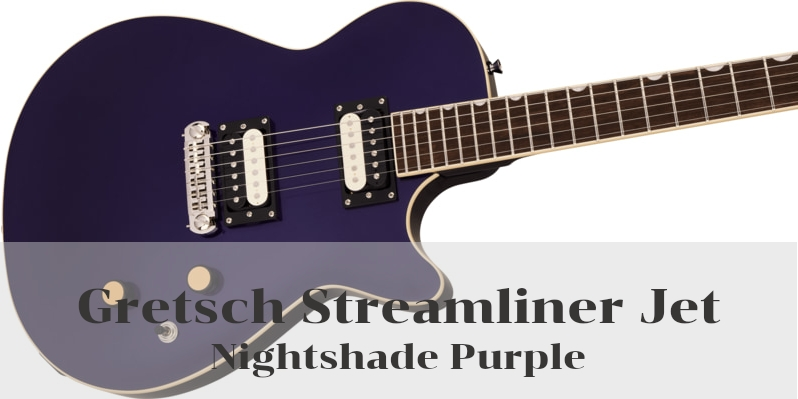
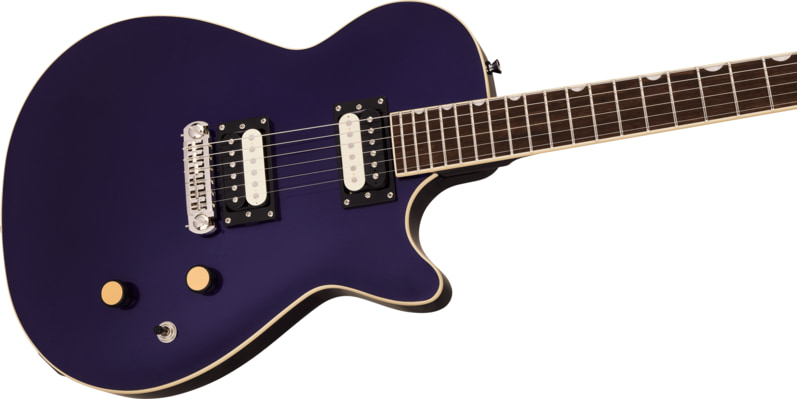
add image shortcodes with sass styles for gear blog post

diff --git a/sass/_images.scss b/sass/_images.scss
@@ -1,0 +1,55 @@
+// Images — figure/image positioning styles for the image shortcode
+// Consumer: shortcodes/image.html
+
+.img-figure {
+  margin: 1.5rem 0;
+
+  img {
+    display: block;
+    max-width: 100%;
+    border-radius: 8px;
+  }
+
+  figcaption {
+    font-family: var(--code-font);
+    font-size: 0.78rem;
+    color: var(--muted);
+    margin-top: 0.5rem;
+  }
+}
+
+.img-full img {
+  width: 100%;
+}
+
+.img-center {
+  width: 50%;
+  margin-left: auto;
+  margin-right: auto;
+
+  img {
+    width: 100%;
+  }
+}
+
+.img-left {
+  float: left;
+  width: 40%;
+  margin: 0 1.5rem 1rem 0;
+}
+
+.img-right {
+  float: right;
+  width: 40%;
+  margin: 0 0 1rem 1.5rem;
+}
+
+@media (max-width: 480px) {
+  .img-left,
+  .img-right,
+  .img-center {
+    float: none;
+    width: 100%;
+    margin: 1.5rem 0;
+  }
+}

diff --git a/sass/style.scss b/sass/style.scss
@@ -1,0 +1,2 @@
+
+@import "images";

diff --git a/static/custom.css b/static/custom.css
@@ -15,7 +15,6 @@
 
 .home-title {
   font-family: 'Array', sans-serif;
-
   font-size: 40px;
 }
 

diff --git a/content/blog/gear-adorations/index.md b/content/blog/gear-adorations/index.md
@@ -1,34 +1,71 @@
 +++
-title = "Gear Adorations"
+title = "Best guitars today!"
 date = "2026-05-07"
-description = ""
+updated = "2026-05-11"
+description = "Best guitars of all shapes and sizes"
 
 [taxonomies]
 tags = ["guitars", "gear"]
 +++
 
-Damn, we are certainly living in a time of the most amazing craftsmanship in musical instruments, particularly stringed instruments. Guitar's these days are truly a work of art. It is really hard to find a modern day guitar that is shitty. Unlike, the 90s and 2000s ordering a Squier or Epiphone basic learning guitar meant you were getting a chinese made POS that entailed lots and lots of work to make it a decent playable instrument. Which used to suck for a student, early adopter trying to learn! Very discouraging. 
+Damn, we are certainly living in a time of the most amazing craftsmanship in musical instruments, particularly stringed instruments, especially guitars these days are truly a work of art. It is really hard to find a modern day guitar that is shitty. Unlike, the 90s ordering a Squier or Epiphone learning guitar meant you were getting a chinese-made POS that entailed lots and lots of work to make it a decent playable instrument. Which used to suck for a student, early adopter trying to learn! Very discouraging. But just like most things (cars, TVs, pizza) in these modern times, they're simply just manufractured with some quality. Even chinese-made guitars are halfway decent!
 
-Anyhow 
+So I want to dive into the wondrous world of modern guitars – from surf-rockers to shoegaze noise machines – to bring you my top picks on the market today.
 
-Lorem ipsum dolor sit amet, excepteur laborum sint minim. Consequat sed amet anim, est lorem commodo excepteur duis laboris, in id in laborum consectetur quis est. Do consequat minim est voluptate duis, eiusmod adipiscing lorem deserunt voluptate. Sed duis cupidatat commodo et. Ex amet cupidatat sit sed minim enim excepteur. Labore proident veniam ea et sunt occaecat eu. Consectetur ullamco nostrud sint esse quis, aliqua eu sit consectetur excepteur.
 
 ## Purple Mess
 
+{{ image(url="img/gretsch-streamjet-01.jpg", position="left", alt="Gretsch Streamliner Jet") }}
 
-{{ full_width_image(src="gretsch-streamjet-01.jpg", alt="Gretsch Streamline Jet") }}
+First, as purple being one of my favorite finishes there have been lots of guitars being released in purple shades. 
+This new [Gretsch Streamliner Jet](https://gretschguitars.com/gear/build/solid-body/streamliner-jet/2814104589) was just released this year and is pretty legit! Basically has same specs as a **Les Paul Special**.
+{{ image(url="img/gretsch-vstock-headstock.jpg", position="right", alt="Gretsch V-Stock") }}
+But these zebra colored humbuckers look really clean with the purple finish. Also Gretsch new Split-V headstock is killer too! 
 
-{{ full_width_image(src="evh-sa120-purp.jpg", alt="EVH SA-120") }}
-
-Irure quis enim deserunt fugiat, laborum ea id ad ipsum qui lorem. Aliqua amet in quis excepteur anim cupidatat in, laborum nulla nulla aliqua pariatur mollit lorem. Ad sunt mollit cillum enim tempor ullamco est. Velit irure mollit nostrud eiusmod enim adipiscing. Sed eiusmod ex ea sunt. Fugiat ipsum reprehenderit non qui pariatur aliqua. Commodo elit reprehenderit lorem non anim do mollit. Qui adipiscing velit laborum commodo non ipsum. Lorem velit proident mollit, adipiscing elit ut in incididunt veniam veniam exercitation.
 
 
-## Incredible Double Cut 
+{{ full_width_image(src="img/jackson-singlecut.jpg", alt="EVH SA-120") }}
 
-Irure quis enim deserunt fugiat, laborum ea id ad ipsum qui lorem. Aliqua amet in quis excepteur anim cupidatat in, laborum nulla nulla aliqua pariatur mollit lorem. Ad sunt mollit cillum enim tempor ullamco est. 
+---
 
-{{ full_width_image(src="yamaha-revstar-rsp02t-01.jpg", alt="Yamaha Revstar RSP02t") }}
+Here's my favorite broken down by shape of their bodies.
 
-{{ full_width_image(src="yamaha-revstar-rsp02t-02.jpg", alt="Yamaha Revstar RSP02t") }}
+## Double Cut
 
-{{ full_width_image(src="yamaha-revstar-rsp02t-03.jpg", alt="Yamaha Revstar RSP02t") }}
+[image 01]
+[image 02]
+
+## Single Cut
+
+[image 01]
+[image 02]
+
+## Semi-hollow
+
+[image 01]
+[image 02]
+
+## Offset
+
+[image 01]
+[image 02]
+
+
+
+The `image` shortcode renders a `<figure>` with lazy loading, optional positioning, and an auto-generated caption from the alt text. It supports both co-located assets and external URLs.
+
+A full-width image with no position set:
+
+{{ image(url="pastels_oil_pastels_colorful_1.jpg", alt="Oil pastels in every color of the spectrum") }}
+
+The same image, floated left with body text wrapping around it:
+
+
+
+When an image is positioned left, surrounding text flows naturally around it. This is useful for smaller illustrations or portraits that complement the text without dominating the layout. The text should wrap cleanly at any viewport width, and the image should never feel like it's colliding with the paragraph. Once enough text has accumulated, the flow returns to full width below the float.
+
+And floated right:
+
+{{ image(url="pastels_oil_pastels_colorful_1.jpg", position="right", alt="A close-up of colorful oil pastels") }}
+
+Right-positioned images work the same way, just mirrored. Text wraps on the left side. This variant is handy for breaking up long runs of text with alternating visuals — left, then right — giving the page a more dynamic rhythm without resorting to a full-width image every time.